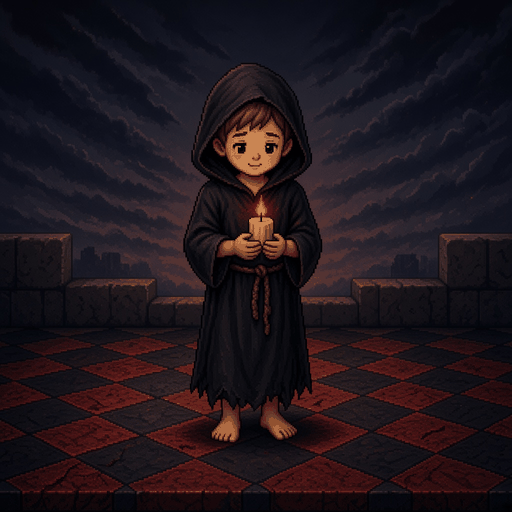
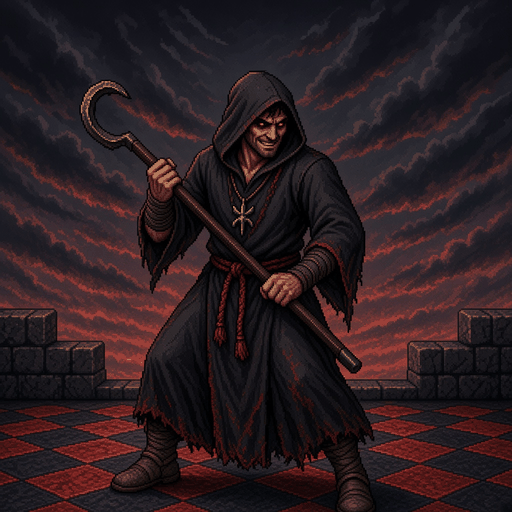
Redraw the Initiate as a grown, threatening zealot instead of a boy
White: a stern hooded zealot with an iron-capped quarterstaff. Black: a grinning hooded cultist with red eyes and a hooked staff. Still plainly equipped, with no armour or glow, as befits the first piece. The rules doc records the ruling.

diff --git a/chessx-rules/docs/chessx-rules.md b/chessx-rules/docs/chessx-rules.md
@@ -31,7 +31,7 @@ The rook, bishop, knight and queen are the top of a line, never a card you summo
 
 ## Card faces (Djabooty, 2026-10-11)
 
-Every card has two faces: a light face for the player with White and a dark face for the player with Black. Owning a card gives you both. The light face looks holy, majestic and noble (think Gandalf the White); the dark face looks mighty, powerful and dark (think Sauron). Every current card has both faces, and its pictures show how strong it is: first levels such as the Initiate, Squire, Recruit, Apprentice, Colt and Wyrmling look humble, final forms look mighty, and the Ancient Mystic Dragon outshines them all (changed by Djabooty, 2026-10-11). A new card that has only one picture shows it to both sides until it gets its second face.
+Every card has two faces: a light face for the player with White and a dark face for the player with Black. Owning a card gives you both. The light face looks holy, majestic and noble (think Gandalf the White); the dark face looks mighty, powerful and dark (think Sauron). Every current card has both faces, and its pictures show how strong it is: first levels such as the Squire, Recruit, Apprentice, Colt and Wyrmling look humble, final forms look mighty, and the Ancient Mystic Dragon outshines them all (changed by Djabooty, 2026-10-11). The Initiate is a grown man in a plain hooded robe with a staff, a stern zealot for White and a sinister cultist for Black: plainly equipped but threatening, never a child (changed by Djabooty, 2026-10-11). A new card that has only one picture shows it to both sides until it gets its second face.
 
 ## What was removed
 
